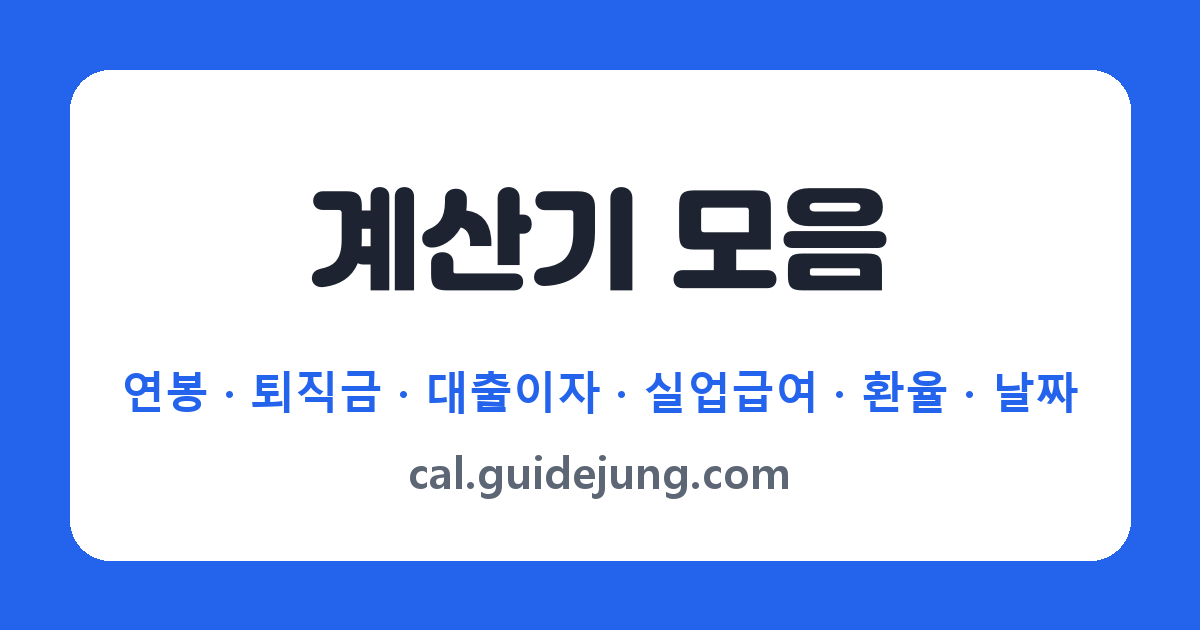
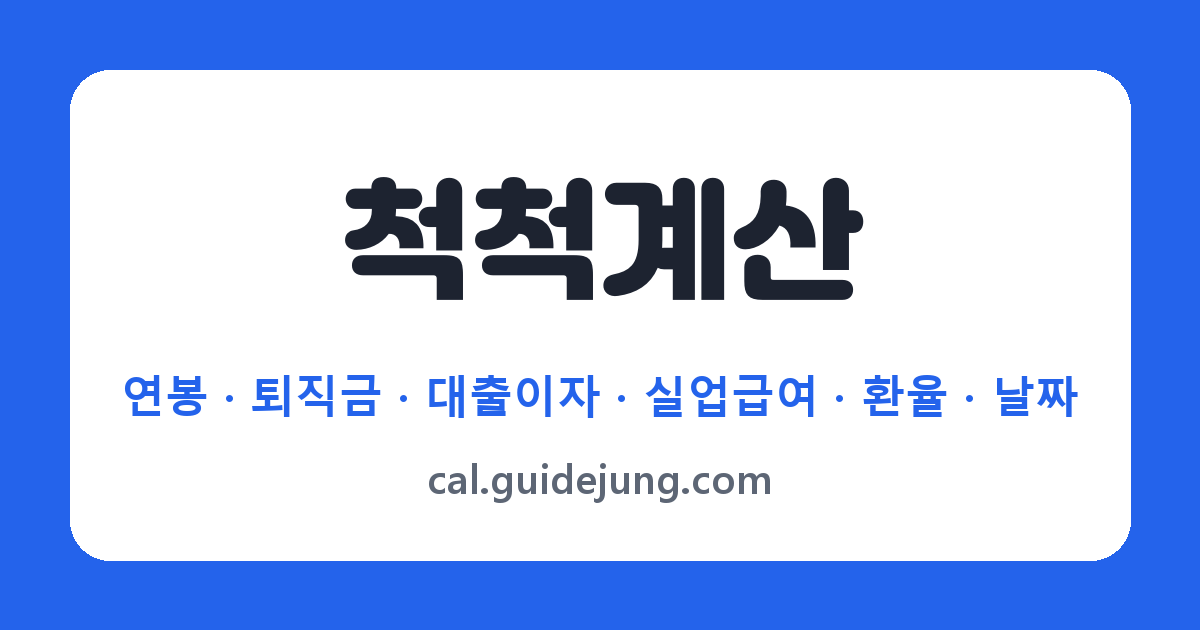
사이트 이름을 척척계산으로 변경

diff --git a/CLAUDE.md b/CLAUDE.md
@@ -1,4 +1,4 @@
-# cal.guidejung.com (계산기 모음) 운영 안내
+# cal.guidejung.com (척척계산) 운영 안내
 
 자주 쓰는 계산기를 모은 정적 사이트입니다. life.guidejung.com(`D:\guidejung\life-site`)과 같은 방식(빌드 스크립트 하나 → GitHub Pages)으로 운영합니다.
 
